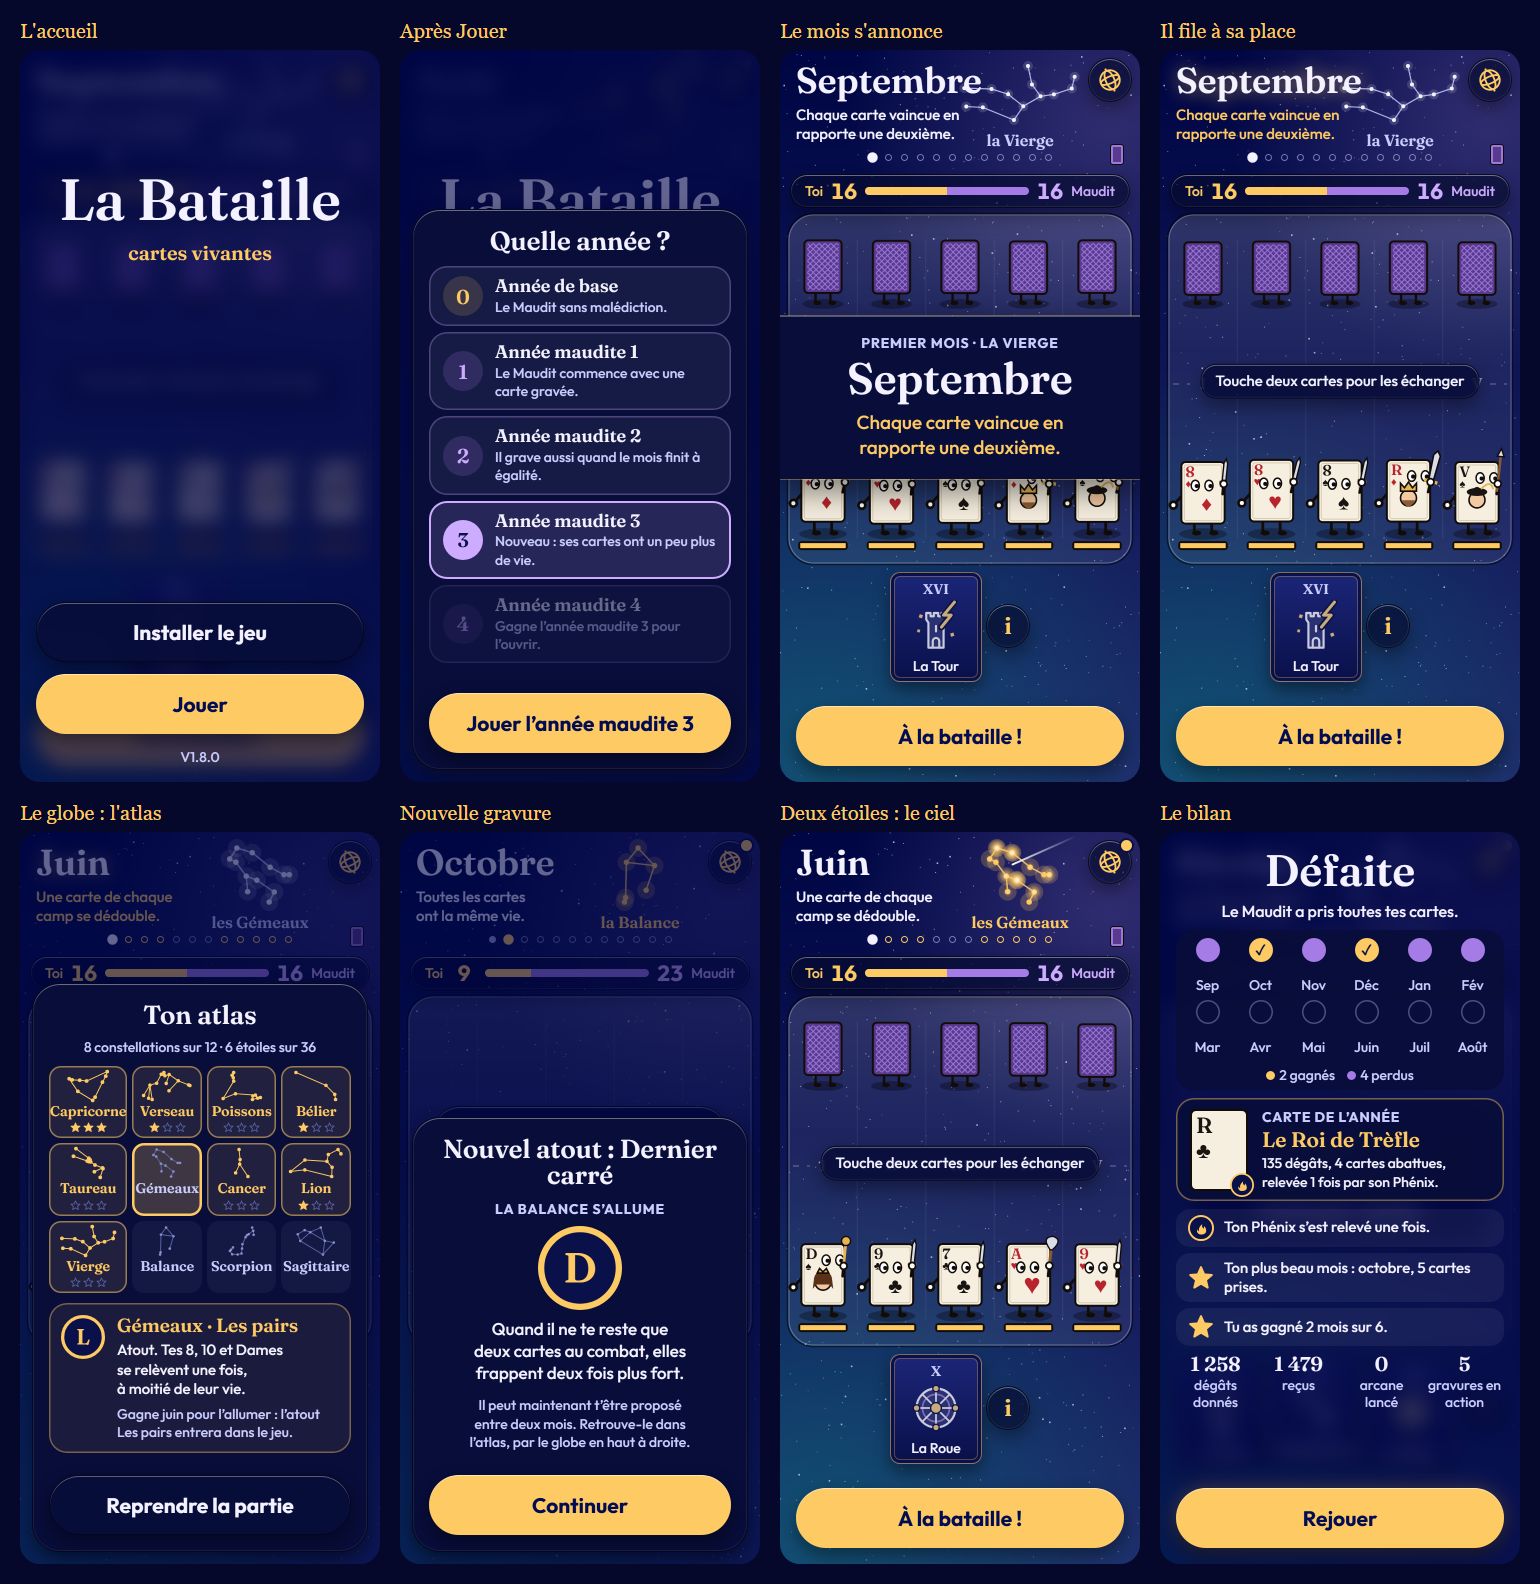
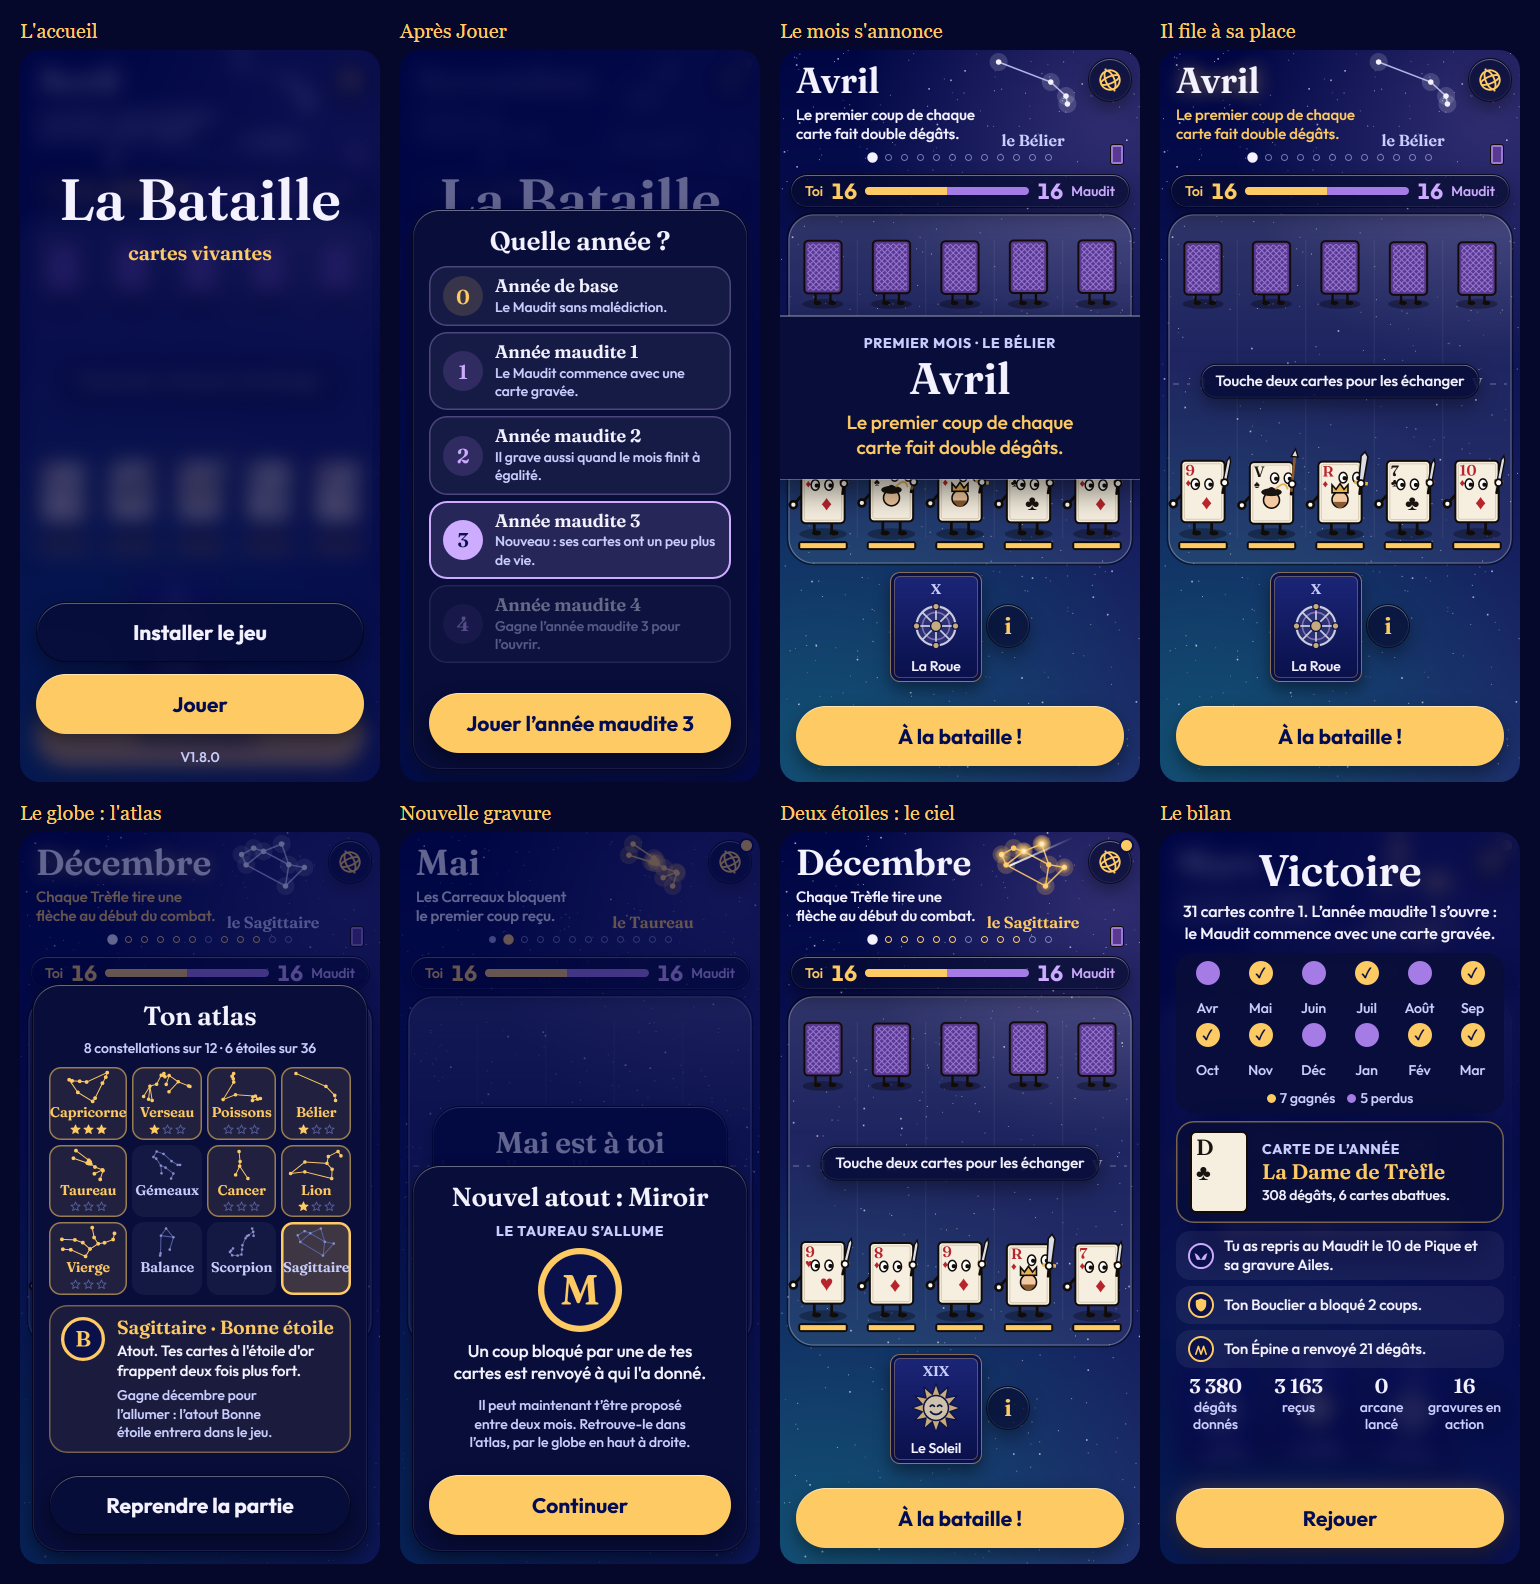
La Bataille V1.8.0 : la constellation tient entre le titre du mois et le globe

diff --git a/bataille/index.html b/bataille/index.html
@@ -39,8 +39,8 @@ svg{display:block}
 .mois p{margin:8px 0 0;font-size:15px;line-height:1.25;color:var(--texte);text-wrap:balance;transition:color .3s}
 /* la règle vient d'arriver du bandeau : elle s'allume en or une seconde */
 .mois.eclaire p{color:var(--accent)}.mois.eclaire h2{text-shadow:0 0 18px rgba(254,202,99,.6)}
-/* la constellation recule de 30 px et se fait un peu plus petite : le coin est au globe */
-.signe{position:absolute;left:171px;width:138px;top:80px;text-align:center;font:600 16px var(--display);color:var(--texte2)}
+/* la constellation se fait plus petite, entre le titre du mois (« Septembre ») et le globe */
+.signe{position:absolute;left:193px;width:120px;top:80px;text-align:center;font:600 16px var(--display);color:var(--texte2)}
 .annee{position:absolute;left:0;right:0;top:104px;display:flex;justify-content:center;gap:9px}
 .annee i{width:7px;height:7px;border-radius:50%;border:1.5px solid var(--texte2);opacity:.55}
 .annee i.fait{background:var(--texte2);opacity:.8}
@@ -1259,7 +1259,7 @@ function peindreDecor(){var c=dctx,g,i,graine=7+S.start*31+S.round*7,alea=functi
   g=c.createRadialGradient(330,60,10,330,60,260);g.addColorStop(0,alpha(C.lui,.22));g.addColorStop(1,alpha(C.lui,0));c.fillStyle=g;c.fillRect(0,0,W,H);
   for(i=0;i<Math.round(H*0.7);i++){var a=alea();c.fillStyle=alpha(C.texte,0.2+a*0.5);var r=a>0.9?1.6:1;c.fillRect(alea()*W,alea()*H,r,r);}
   /* Une vraie figure peut compter trente étoiles : au-delà de douze, elles se dessinent plus fines. */
-  var fig=CIEL[month().id]||{st:[],ln:[]},gros=fig.st.length<=12,pts=fig.st.map(function(p){return[179+p[0]*121,16+p[1]*54];});
+  var fig=CIEL[month().id]||{st:[],ln:[]},gros=fig.st.length<=12,pts=fig.st.map(function(p){return[206+p[0]*94,12+p[1]*42];});
   /* une constellation déjà allumée dans l'atlas brille en or : on se souvient de l'avoir gagnée */
   var dore=ESSAI&&!!ATLAS.lu[month().id],coulL=dore?alpha(C.moiPlein,.9):alpha(C.texte2,.85),coulE=dore?C.moiPlein:C.texte,halo=dore?alpha(C.moiPlein,.22):alpha(C.texte,.16);
   $('signe').classList.toggle('lu',dore);majAstres(pts,month().id);
